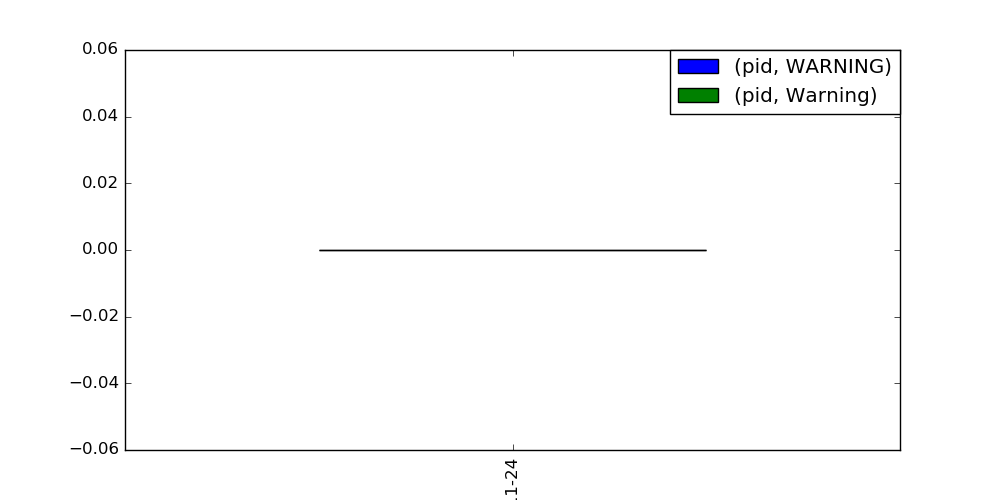
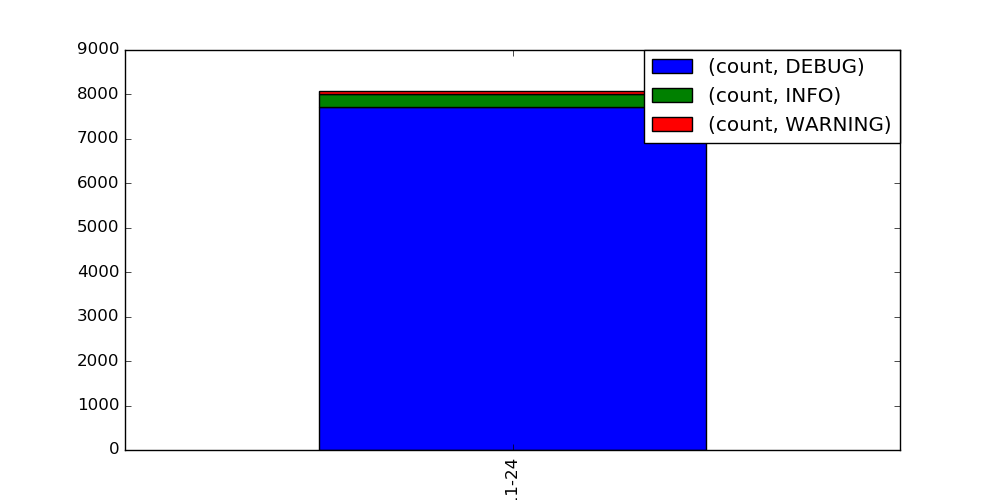
Update log chart

diff --git a/openstack_dashboard/dashboards/logmanagement/view/views.py b/openstack_dashboard/dashboards/logmanagement/view/views.py
@@ -23,6 +23,13 @@ from openstack_dashboard.dashboards.logmanagement import util
 from openstack_dashboard.dashboards.logmanagement.view \
     import tables as log_tables
 
+# Regex 
+OPENSTACK_TIMESTAMP = re.compile("\d{4}-\d{2}-\d{2}\s\d{2}:\d{2}:\d{2}\.[0-9]{6}")
+OPENSTACK_PID = re.compile("\s([0-9]+)?\s")
+OPENSTACK_RESOURCE = re.compile("\s([a-z\.]+)?\s")
+OPENSTACK_LOGLEVEL = re.compile("([D|d]ebug|DEBUG|[N|n]otice|NOTICE|[I|i]nfo|INFO|[W|w]arn?(?:ing)?|WARN?(?:ING)?|[E|e]rr?(?:or)?|ERR?(?:OR)?|[C|c]rit?(?:ical)?|CRIT?(?:ICAL)?|[F|f]atal|FATAL|[S|s]evere|SEVERE|[A|a]udit|AUDIT)")
+
+
 class IndexView(tables.DataTableView):
     template_name = 'logmanagement/view/index.html'
     page_title = _("Log Viewer")
@@ -80,37 +87,41 @@ class IndexView(tables.DataTableView):
     def get_date(self, datestring):
         return datestring[:10]
 
-    def repair_data_for_pandas_chart(self):
-        pass
-
     def render_pandas_chart(self):
-        log_path = '/opt/logs/'
-        with open(log_path + '/key.log') as f:
-            data = f.read()
+        log_path = '/opt/stack/logs/'
+        file_path = log_path + 'key.log'
 
-        data_line = data.split('\n')
-        data_arr = []
+        if os.path.isfile(file_path):
+            with open(file_path) as f:
+                data = f.read()
 
-        for i in range(len(data_line)):
-            _group = re.match("([A-Z]+)\:", data_line[i][27:])
-            if  _group and _group.group(1):
-                data_arr.append({'date': data_line[i][0:10], 'time': data_line[i][11:19], 'level': _group.group(1), 'content': data_line[i][27:], 'count': 1})
-        data_frame = pd.DataFrame(data=data_arr)
+            data_line = data.split('\n')
+            data_arr = []
 
-        ## Render stat chart
-        data_frame = pd.DataFrame(data=data_arr)
-        data_frame_group = data_frame.groupby(['date','level']).agg(np.sum)
-        data_frame_plot = data_frame_group.unstack().plot(
-            kind='bar',
-            stacked=True,
-            #layout=("Date", "Number"), 
-            figsize=(10, 5)
-        )
-        data_frame_plot.legend(loc=1, borderaxespad=0.)
-        fig = data_frame_plot.get_figure()
+            for i in range(len(data_line)):
+                _timestamp = re.findall(OPENSTACK_TIMESTAMP, data_line[i])
+                _level = re.findall(OPENSTACK_LOGLEVEL, data_line[i])
 
-        # NOTE: Generate chart to images
-        fig.savefig(getattr(settings, 'ROOT_PATH') + "/static/dashboard/logmanagement/horizon-logmanagement-stat.png")
+                if not _timestamp or not _level:
+                    continue
+                else:
+                    data_arr.append({'date': self.get_date(_timestamp[0]), 'level': _level[0], 'count': 1})
+            data_frame = pd.DataFrame(data=data_arr)
+
+            ## Render stat chart
+            data_frame = pd.DataFrame(data=data_arr)
+            data_frame_group = data_frame.groupby(['date','level']).agg(np.sum)
+            data_frame_plot = data_frame_group.unstack().plot(
+                kind='bar',
+                stacked=True,
+                #layout=("Date", "Number"), 
+                figsize=(10, 5)
+            )
+            data_frame_plot.legend(loc=1, borderaxespad=0.)
+            fig = data_frame_plot.get_figure()
+
+            # NOTE: Generate chart to images
+            fig.savefig(getattr(settings, 'ROOT_PATH') + "/static/dashboard/logmanagement/horizon-logmanagement-stat.png")
 
 
 
@@ -123,11 +134,6 @@ class IndexView(tables.DataTableView):
                 log_data = f.read()
                 data_line = log_data.split('\n')
 
-                OPENSTACK_TIMESTAMP = re.compile("\d{4}-\d{2}-\d{2}\s\d{2}:\d{2}:\d{2}\.[0-9]{6}")
-                OPENSTACK_PID = re.compile("\s([0-9]+)?\s")
-                OPENSTACK_RESOURCE = re.compile("\s([a-z\.]+)?\s")
-                OPENSTACK_LOGLEVEL = re.compile("([D|d]ebug|DEBUG|[N|n]otice|NOTICE|[I|i]nfo|INFO|[W|w]arn?(?:ing)?|WARN?(?:ING)?|[E|e]rr?(?:or)?|ERR?(?:OR)?|[C|c]rit?(?:ical)?|CRIT?(?:ICAL)?|[F|f]atal|FATAL|[S|s]evere|SEVERE|[A|a]udit|AUDIT)")
- 
                 for i in range(min(10, len(data_line))):
                     current_line = self.replace_coloredlog_format(data_line[i])
 
@@ -184,5 +190,8 @@ class IndexView(tables.DataTableView):
         for filename in os.listdir(log_path):
             if filename.endswith(".log"):
                 data_arr += self.parse_log_from_file(filename, log_path)
+
+        # Render pandas chart
+        self.render_pandas_chart()
 
         return data_arr

diff --git a/openstack_dashboard/dashboards/logmanagement/view/tables.py b/openstack_dashboard/dashboards/logmanagement/view/tables.py
@@ -45,6 +45,7 @@ class DeleteLog(tables.DeleteAction):
         )
 
     def delete(self, request, obj_id):
+        # TODO: Remove log by line number and filename
         pass
 
 
